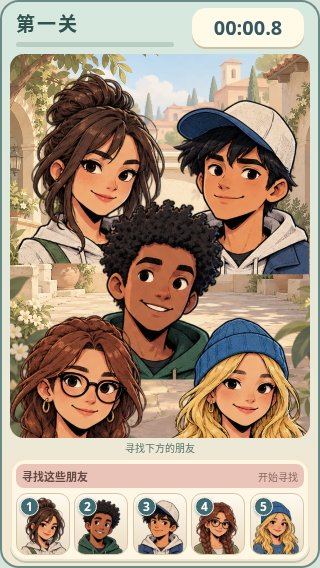
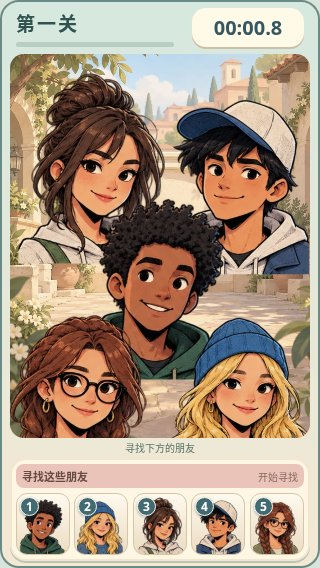
test: record V0.5 regression results and pending capacity decision

Changed region(s): [[0.0625, 0.868, 0.75, 0.9877], [0.7812, 0.868, 0.9375, 0.9877]]

diff --git a/tests/model.test.js b/tests/model.test.js
@@ -103,3 +103,8 @@ test('GO respects a nested visibility pause and tutorial has only one batch',()=
  now=5100;for(const id of r.targets)assert.equal(r.pick(id),'correct');assert.equal(r.done,true);assert.equal(r.elapsed,100);assert.equal(r.transitioning,false);
  for(const dims of [[370,594],[300,382]]){const p=selectPack(0,...dims);assert.equal(p.count,5);assert.equal(crowdLayout(p,...dims).length,5);}
 });
+test('all 150 existing identities complete 30 unique model batches (not layout acceptance)',()=>{
+ const ids=CHARACTERS.map(c=>c.id),r=new Round(ids,()=>0),seen=new Set();let batches=0;
+ while(!r.done){batches++;for(const id of [...r.targets]){assert.equal(seen.has(id),false);seen.add(id);assert.equal(r.pick(id),'correct');}if(!r.done){r.advanceBatch();r.finishTransition();}}
+ assert.equal(batches,30);assert.equal(seen.size,150);assert.equal(r.penaltyMs,0);
+});

diff --git a/docs/V05-VALIDATION.md b/docs/V05-VALIDATION.md
@@ -55,3 +55,18 @@ Branch: `feat/v05-crowd-experience`. No main changes, merge, Pages permission ch
 - `scripts/measure-v05-capacity.py`, `scripts/seed-v05-diagnostic.mjs`, `tests/v05-capacity-preview.js`, `docs/v05-*.json`: reproducible 150-person capacity evidence, outside production gameplay.
 - `scripts/build-portable.mjs`, `scripts/package-trial.py`, `package.json`, lockfile: V0.5 draft artifact names, test commands and version.
 - `docs/screenshots/v05-*.jpg`: actual gameplay/diagnostic previews.
+
+GitHub branch push succeeded (`5daf6ac` feature commit). Automatic draft PR creation failed with `Post https://api.github.com/graphql: Forbidden` in the cloud environment. No PR number was returned and no PR creation is claimed. Manual draft creation: https://github.com/BlueengelEdgar/Find-face-game/compare/main...feat/v05-crowd-experience?expand=1 — select **Create draft pull request** and use `docs/V05-PR.md`. Do not merge while the capacity decision is pending.
+
+## Final automated results
+
+- `npm ci`: passed.
+- `npm test`: 20/20 passed, including a 150-ID/30-batch model-only completion test.
+- `npm run build`: passed; portable HTML embedding/parsing verified. Existing Phaser chunk-size warning remains.
+- `npm run test:browser`: passed. Four intro/tutorial viewports; then 370 correct touch selections across five complete tutorial + V0.4 baseline second-level runs, with 64 batch transitions. Includes supported/unsupported/throwing vibration, rapid errors, hold/drag, correct/found input, alpha-transparent overlap, countdown/transition locks, badges, responsive bounds, retry reset, fake ranking, and zero-network offline HTML. See `v05-browser-results.json`.
+- Tutorial worst upper-head visibility: 90.96% / 98.64% / 91.94% / 91.45% across the four viewports; all central facial-feature masks >=95%.
+- Capacity diagnostic: completed as a **failed 150-person layout experiment**, not a passing acceptance test.
+- ZIP helper: CRC and embedded HTML equality passed.
+- `git diff --check`: passed.
+
+Earlier exploratory runs exposed tutorial edge/chin clipping (fixed in coordinates) and an overly strict wall-time-independent assertion on repeated found taps (corrected to subtract actual elapsed time). The final full run passed; no test threshold for head visibility or density was weakened.

diff --git a/docs/V05-PR.md b/docs/V05-PR.md
@@ -1,0 +1,7 @@
+The tutorial now contains five large staggered characters with numbered target slots, a locked instruction/countdown opening, and a 710 ms batch transition with panel glow, sparkles, rotating flight and elastic arrival. Existing alpha-based input, penalties, art and deployment workflow are preserved.
+
+**Draft / do not merge:** the requested 150-person second-level layout is blocked by the phone capacity constraints. Production second-level files remain the unchanged V0.4 75/45-person baseline. A separate deterministic 150-person diagnostic at existing minimum portrait size fails head visibility for 145 characters and stable face-touch witnesses for 17. The user must choose pagination, a measured lower population, or smaller portraits before this can become the complete V0.5 release. No rule relaxation has been silently selected.
+
+See `docs/V05-VALIDATION.md`, per-character capacity measurements and actual screenshots under `docs/screenshots/v05-*`. Real iPhone Safari, physical touch/haptics/FPS and human visual approval remain outstanding. This branch must not be described as a completed 150-person mobile release. No merge, Pages permission change or public deployment was performed.
+
+Validation: npm ci; 20 model tests; production build (existing Phaser chunk warning); four responsive Chromium opening/tutorial cases plus 370 correct touch picks / 64 batch transitions across five baseline level pairs, including offline portable HTML. Final run details are recorded in the validation document.
